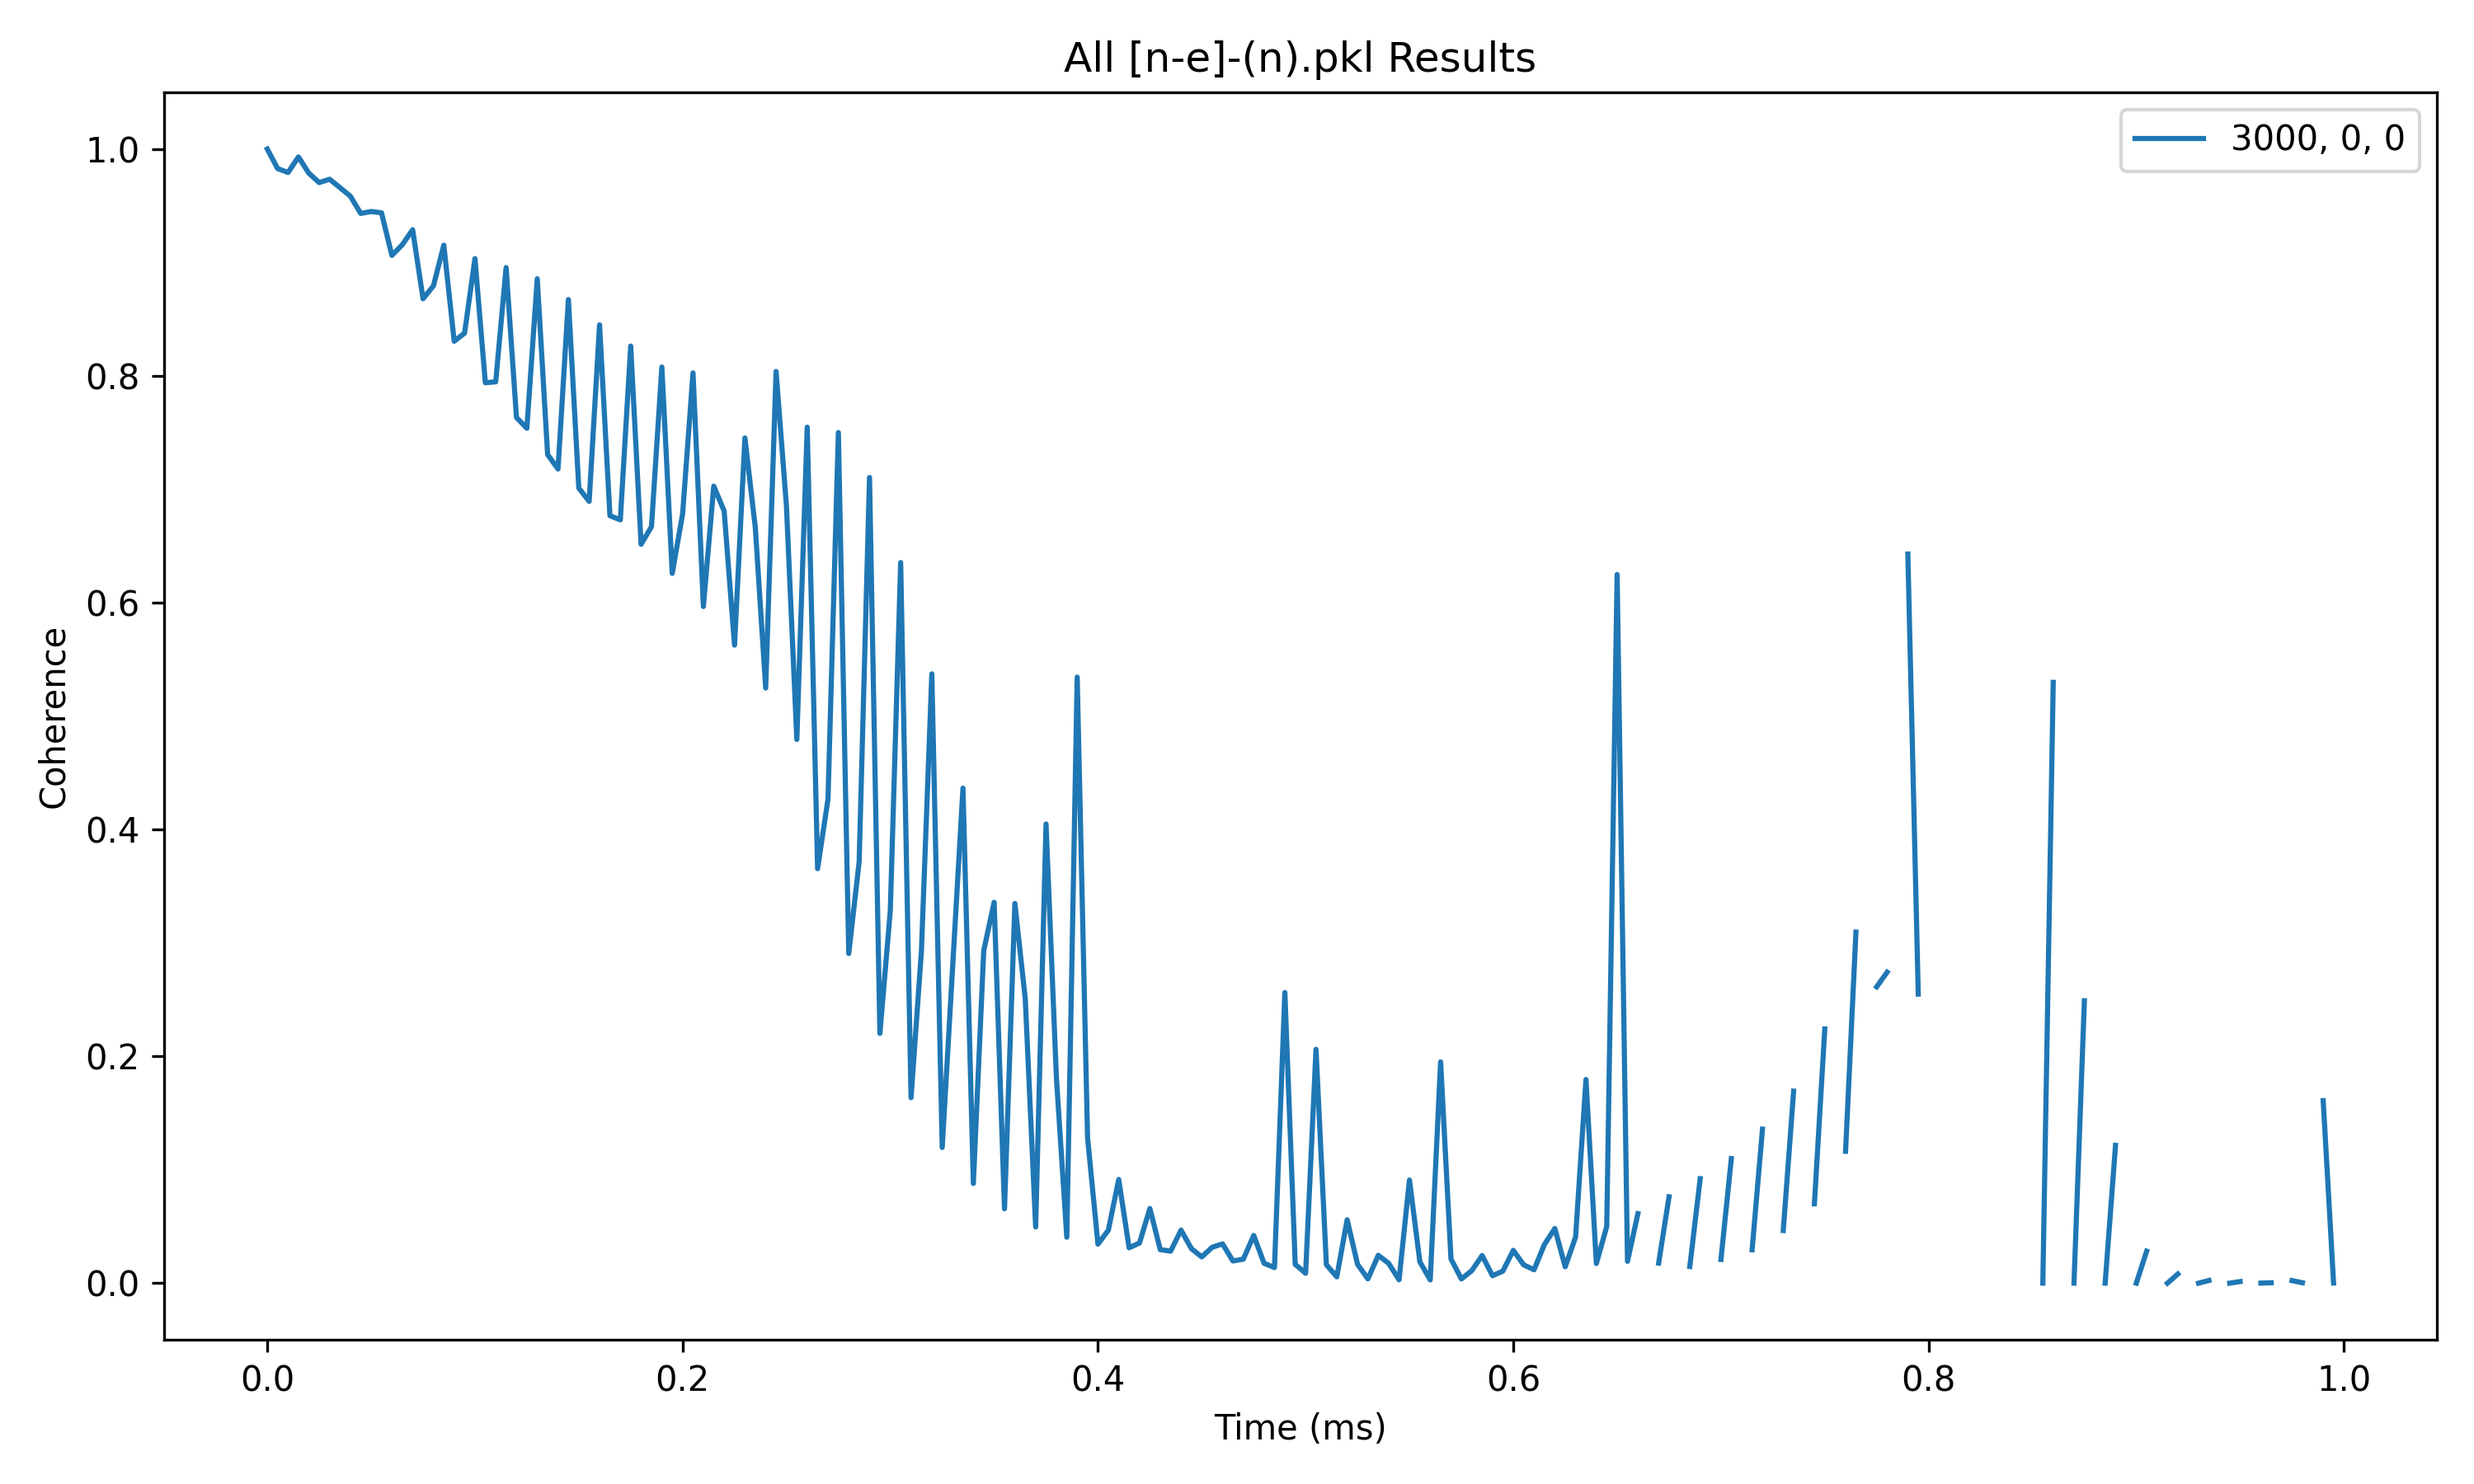
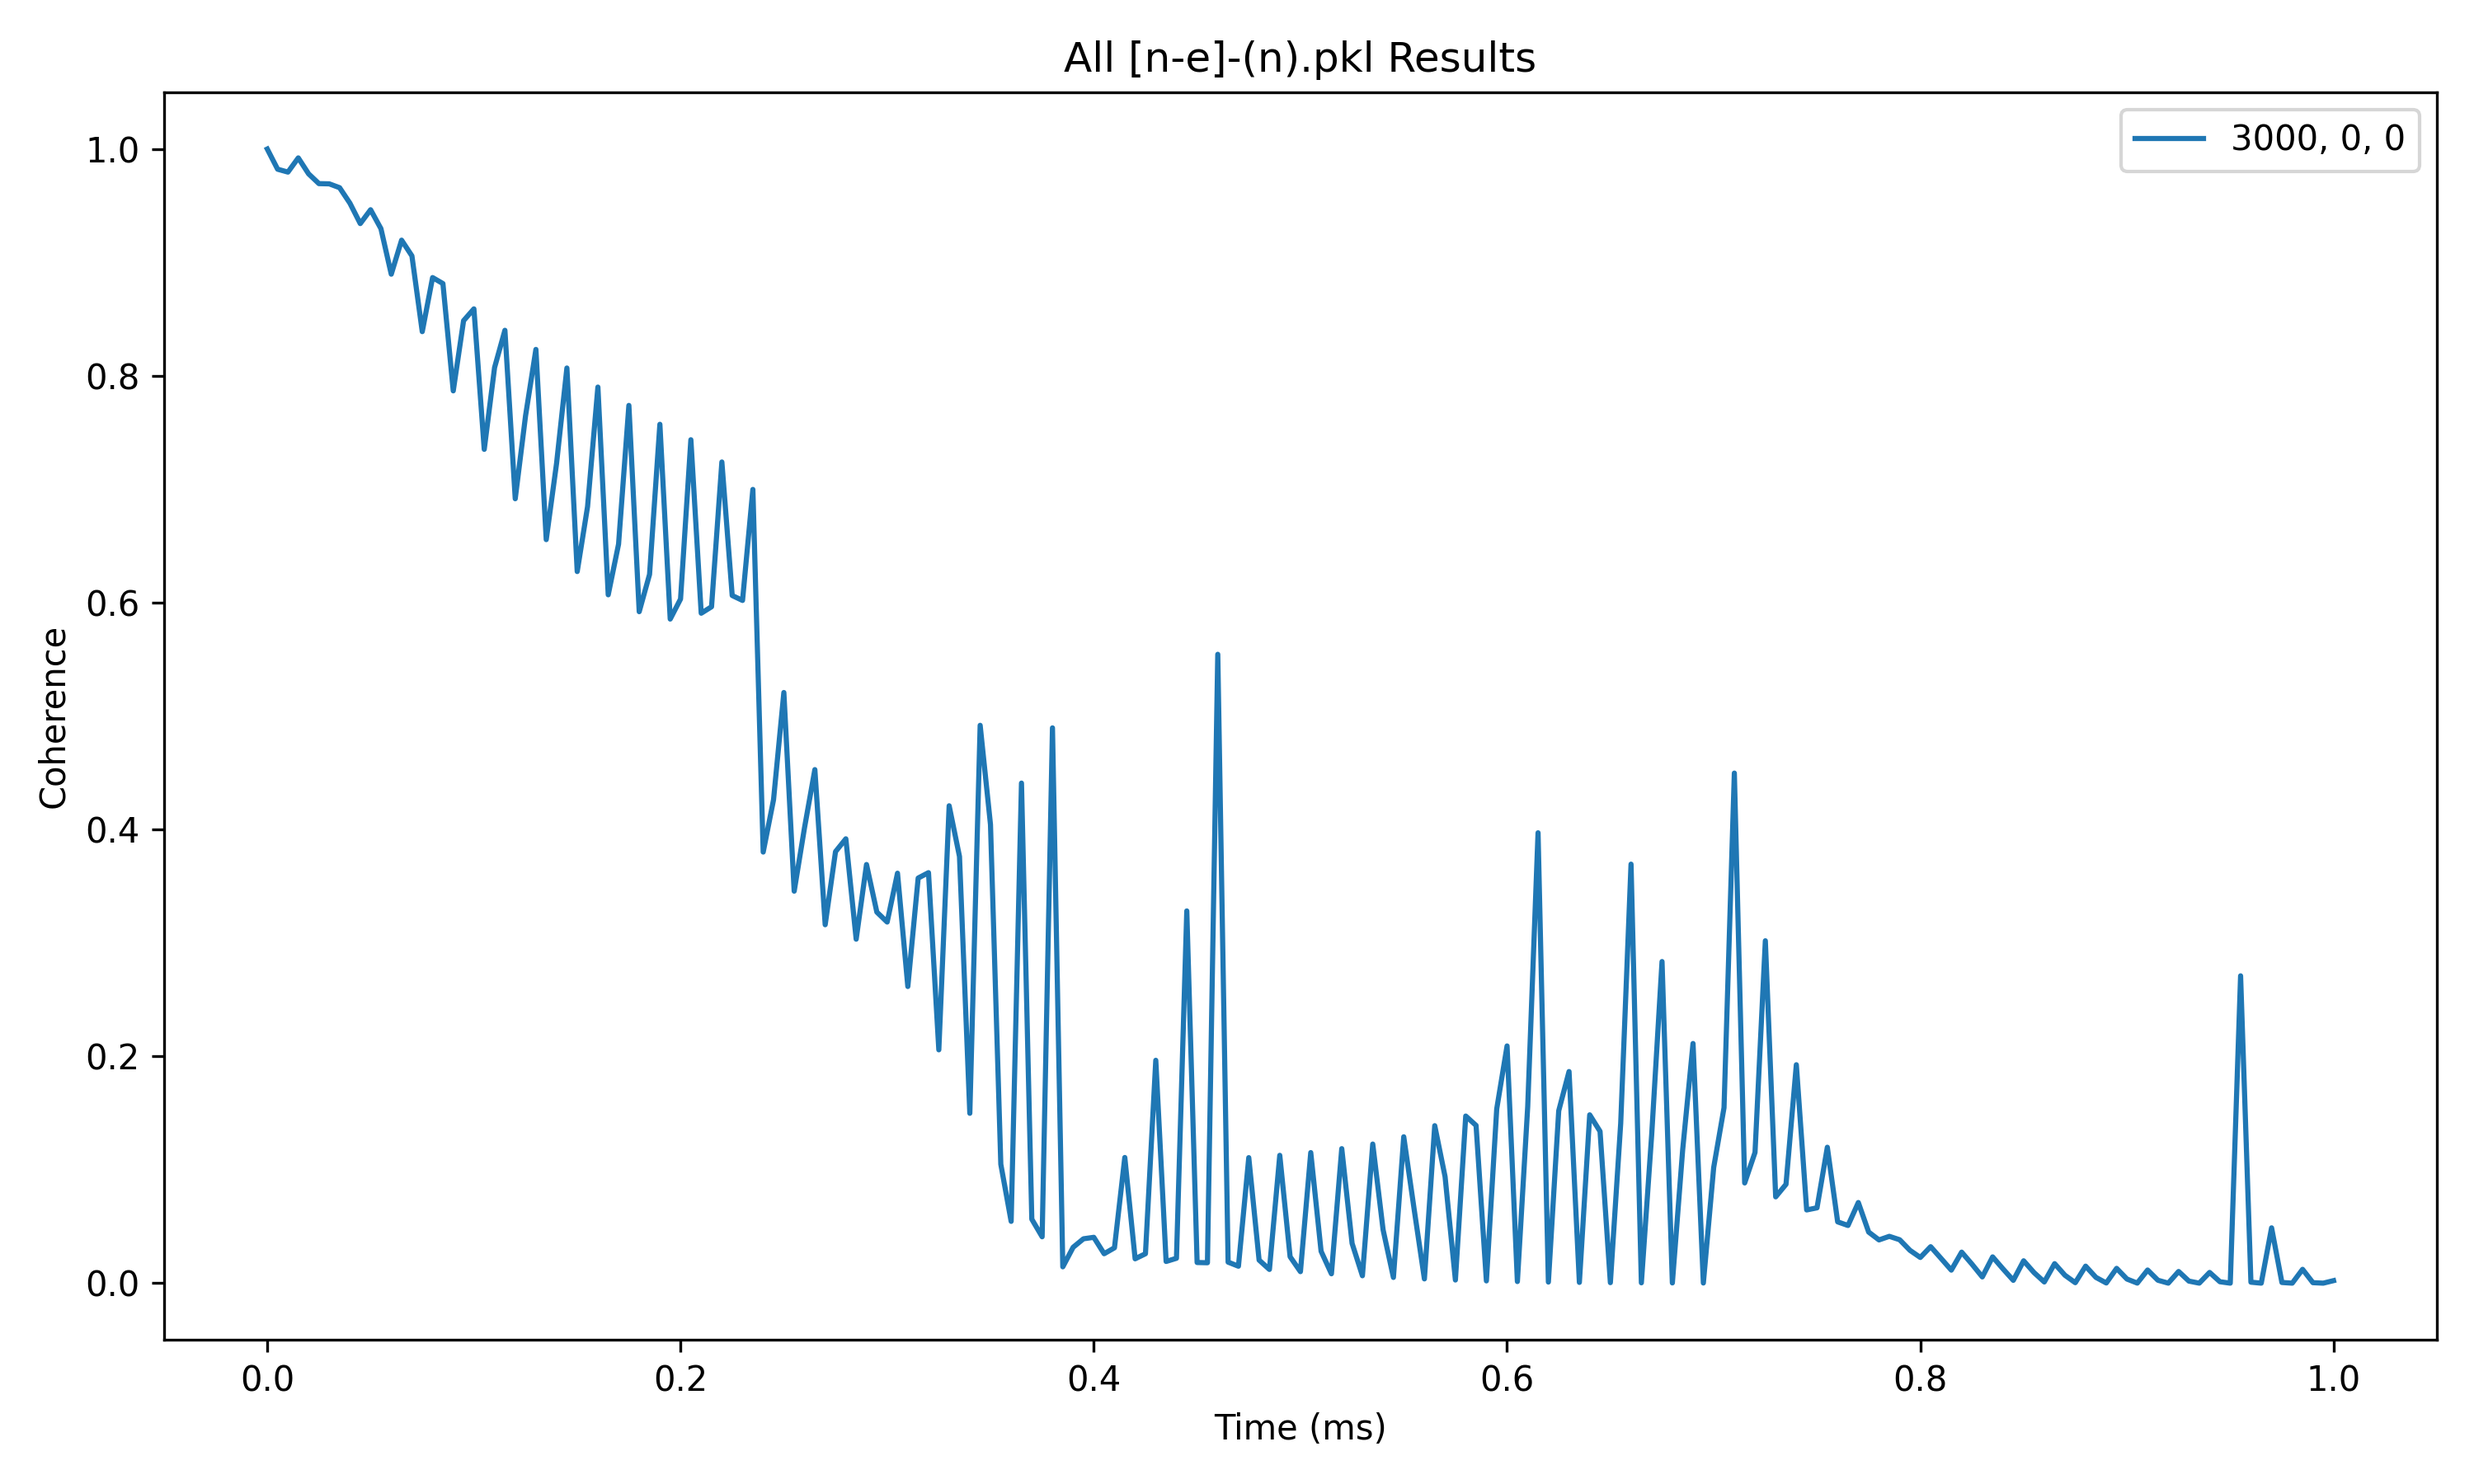
[n-e]-n with just H, T_2=587us

diff --git a/VOTPP folder/VOTPP_[n-e]-(n).py b/VOTPP folder/VOTPP_[n-e]-(n).py
@@ -150,15 +150,15 @@ default_calc_parameters = {
 }
 
 default_bath_parameters = {
-    'concentration': 1313, #!
+    'concentration': 1111, #!
     'cell_size': 500, #!
     'seed': 8000
 }
 
 default_simulator_parameters = { ########## These should be greater when simulating with HPC
     'order': 2, #!
-    'r_bath': 40, #16,
-    'r_dipole': 30, #6,
+    'r_bath': 10, #16,
+    'r_dipole': 5, #6,
     'magnetic_field': [3000, 0, 0], # Magnetic field in Gauss
 }
 
